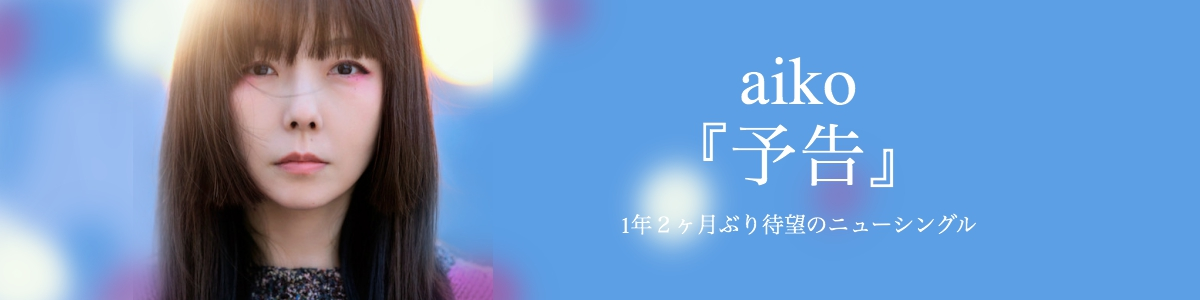
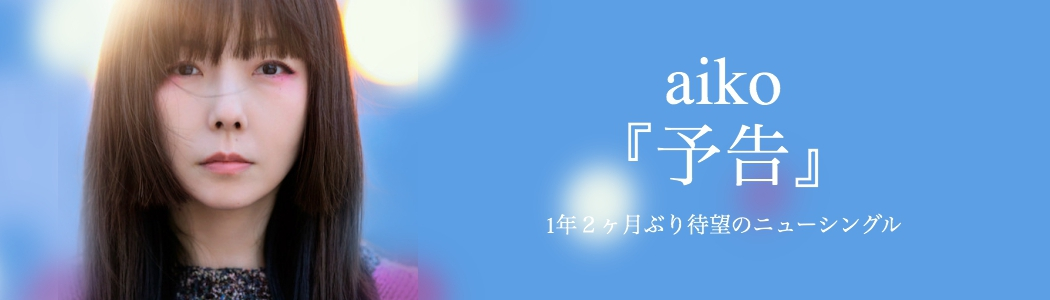
re:sd

diff --git a/sd_sample/song.html b/sd_sample/song.html
@@ -39,6 +39,15 @@
         <div class="col-lg-8 col-lg-offset-2" style="font-size: 12px">
             <form class="form-horizontal">
               <div class="form-group">
+                <label class="control-label col-sm-4" for="price">ディスクナンバー:</label>
+                <div class="col-sm-8"> 
+                  <input type="integer" class="num" id="num" placeholder="disc_num">
+                </div>
+              </div>
+              <!-- ここからnested form!!! -->
+             <div style="text-align: center"> 曲の登録</div>
+            <form class="form-horizontal">
+              <div class="form-group">
                 <label class="control-label col-sm-4" for="price">曲順:</label>
                 <div class="col-sm-8"> 
                   <input type="integer" class="num" id="num" placeholder="order_num">
@@ -69,42 +78,85 @@
                   <input type="string" class="singer_name" id="singer_name" placeholder="singer_name">
                 </div>
 			  </div>
+              <!-- ここまでをnested formで繰り返したい -->
+                           <div style="text-align: center"> 曲の登録</div>
+            <form class="form-horizontal">
+              <div class="form-group">
+                <label class="control-label col-sm-4" for="price">曲順:</label>
+                <div class="col-sm-8"> 
+                  <input type="integer" class="num" id="num" placeholder="order_num">
+                </div>
+              </div>
+              <div class="form-group">
+                <label class="control-label col-sm-4" for="song_name">曲名:</label>
+                <div class="col-sm-8">
+                  <input type="string" class="form-control" id="song_name" placeholder="song_name">
+                </div>
+              </div>
+              <div class="form-group">
+                <label class="control-label col-sm-4" for="song_kana_name">曲名(カナ):</label>
+                <div class="col-sm-8"> 
+                  <input type="string" class="form-control" id="song_kana_name" placeholder="song_kana_name">
+                </div>
+              </div>
+              <div class="form-group">
+                <label class="control-label col-sm-4" for="time">時間:</label>
+                <div class="col-sm-8"> 
+                  <input type="time" class="form-control" id="time" placeholder="time">
+                </div>
+              </div>
+
+              <div class="form-group">
+                <label class="control-label col-sm-4" for="singer_name">アーティスト名:</label>
+                <div class="col-sm-8"> 
+                  <input type="string" class="singer_name" id="singer_name" placeholder="singer_name">
+                </div>
+              </div>
+                           <div style="text-align: center"> 曲の登録</div>
+            <form class="form-horizontal">
+              <div class="form-group">
+                <label class="control-label col-sm-4" for="price">曲順:</label>
+                <div class="col-sm-8"> 
+                  <input type="integer" class="num" id="num" placeholder="order_num">
+                </div>
+              </div>
+              <div class="form-group">
+                <label class="control-label col-sm-4" for="song_name">曲名:</label>
+                <div class="col-sm-8">
+                  <input type="string" class="form-control" id="song_name" placeholder="song_name">
+                </div>
+              </div>
+              <div class="form-group">
+                <label class="control-label col-sm-4" for="song_kana_name">曲名(カナ):</label>
+                <div class="col-sm-8"> 
+                  <input type="string" class="form-control" id="song_kana_name" placeholder="song_kana_name">
+                </div>
+              </div>
+              <div class="form-group">
+                <label class="control-label col-sm-4" for="time">時間:</label>
+                <div class="col-sm-8"> 
+                  <input type="time" class="form-control" id="time" placeholder="time">
+                </div>
+              </div>
+
+              <div class="form-group">
+                <label class="control-label col-sm-4" for="singer_name">アーティスト名:</label>
+                <div class="col-sm-8"> 
+                  <input type="string" class="singer_name" id="singer_name" placeholder="singer_name">
+                </div>
+              </div>
               <div class="right"> 
                 <div class="col-sm-offset-2 col-sm-10">
+                    <div class="left">
                     <a href="disc.html">
-                        <button type="submit" class="btn btn-success">song登録</button>
+                        <button type="submit" class="btn btn-success">まだsong追加する??</button>
                     </a>
+                </div>
                 </div>
             </div>
         </form>
-        <div class="title-headline">ADD DISC</div>
-        <table class="table">
-            <thead>
-                <tr>
-                    <td>1</td>
-                    <td>モーニングコーヒー (20th Anniversary Ver.)</td>
-                    <td>モーニングコーヒー</td>
-                    <td>モーニング娘。20th </td>
-                    <td>03:45</td>
-                </tr>
-            </thead>
-            <tbody>
-            	<tr>
-                    <td>2</td>
-                    <td>WE ARE LEADERS！ ～リーダーってのもつらいもの～</td>
-                    <td>ウィーアーリーダーズ</td>
-                    <td>モーニング娘。リーダーズ(中澤裕子、飯田圭織、矢口真里、吉澤ひとみ、藤本美貴、高橋愛、新垣里沙、道重さゆみ、譜久村聖) </td>
-                    <td>4:30</td>
-            	</tr>
-            	<tr>
-                    <td>3</td>
-                    <td> 花が咲く 太陽浴びて</td>
-                    <td>ハナガサクタイヨウアビテ</td>
-                    <td>モーニング娘。'18</td>
-                    <td>4:24</td>
-            	</tr>
-            </tbody>
-        </table>
+
+
         <div class="right">
         	<a href="song.html">
                 <button class="btn btn-success">disc追加</button>

diff --git a/sd_sample/review_history.html b/sd_sample/review_history.html
@@ -37,13 +37,6 @@
     <div class="col-lg-10 col-lg-offset-1">
     <h2 class="title_headline">REVIEW HISTORY</h2>
     
-<ul class="nav nav-tabs">
-  <li class="active"><a data-toggle="tab" href="#home">新着</a></li>
-  <li><a data-toggle="tab" href="#menu1">確認済</a></li>
-</ul>
-
-<div class="tab-content">
-  <div id="home" class="tab-pane fade in active">
     <h3>新着</h3>
     <table class="table">
                       <thead>
@@ -71,8 +64,6 @@
                                   CDのみならポストに投函されるんでしょうが、特典のクリアファイルが付いているからか、
                                   大きな箱に入って、クリアファイルが折れないように丁寧に梱包されてきました。
                             <div class="review_date">2018/3/3<br>
-                                <a href="review_form.html"><button class="btn btn-success">check</button></a>
-                                <button class="btn btn-danger">destroy</button>
                             </div>
                            </td>
                         </tr>
@@ -92,8 +83,6 @@
                               もちろん、これ以外の曲もとてもよかったです。リーダーズは聞きごたえ満点でした。
                               DVD収録の武道館コンサートに行っていたので、見るたびにあの時の興奮がよみがえります。
                             <div class="review_date">2018/2/3<br>
-                                <a href="review_form.html"><button class="btn btn-success">check</button></a>
-                                    <button class="btn btn-danger">destroy</button>
                             </div>
                           </td>
                         </tr>
@@ -113,8 +102,6 @@
                               記念の落ち着いた曲が多いですね
                               参加してるOGのファンは今回買わずにいつ買うのってことです
                             <div class="review_date">2017/12/3<br>
-                                <a href="review_form.html"><button class="btn btn-success">check</button></a>
-                                <button class="btn btn-danger">destroy</button>
                             </div>
                            </td>
                         </tr>
@@ -131,23 +118,10 @@
                             <td>
                                 <div class="review_star">★☆☆☆☆星1</div><br>初回限定を無事予約出来たのでよかったです。
                                 <div class="review_date">2017/2/3<br>
-                                    <a href="review_form.html"><button class="btn btn-success">check</button></a>
-                                    <button class="btn btn-danger">destroy</button>
                                 </div>
                             </td>
                         </tr>
-                      </tbody>
-                    </table>
                 </div>
-                    <div id="menu1" class="tab-pane fade">
-                        <h3>確認済</h3>
-                        <table class="table">
-                          <thead>
-                            <tr>
-                              <th>cd</th>
-                              <th>user</th>
-                              <th>review/comments</th>
-                            </tr>
                           </thead>
                           <tbody class="review_index">
                             <tr>
@@ -167,8 +141,6 @@
                                       CDのみならポストに投函されるんでしょうが、特典のクリアファイルが付いているからか、
                                       大きな箱に入って、クリアファイルが折れないように丁寧に梱包されてきました。
                                 <div class="review_date">2018/3/3<br>
-                                    <a href="review_form.html"><button class="btn btn-info">back</button></a>
-                                    <button class="btn btn-danger">destroy</button>
                                 </div>
                                </td>
                             </tr>
@@ -188,8 +160,6 @@
                                   もちろん、これ以外の曲もとてもよかったです。リーダーズは聞きごたえ満点でした。
                                   DVD収録の武道館コンサートに行っていたので、見るたびにあの時の興奮がよみがえります。
                                 <div class="review_date">2018/2/3<br>
-                                    <a href="review_form.html"><button class="btn btn-info">back</button></a>
-                                        <button class="btn btn-danger">destroy</button>
                                 </div>
                               </td>
                             </tr>
@@ -209,8 +179,6 @@
                                   記念の落ち着いた曲が多いですね
                                   参加してるOGのファンは今回買わずにいつ買うのってことです
                                 <div class="review_date">2017/12/3<br>
-                                    <a href="review_form.html"><button class="btn btn-info">back</button></a>
-                                    <button class="btn btn-danger">destroy</button>
                                 </div>
                                </td>
                             </tr>
@@ -227,8 +195,6 @@
                                 <td>
                                     <div class="review_star">★☆☆☆☆星1</div><br>初回限定を無事予約出来たのでよかったです。
                                     <div class="review_date">2017/2/3<br>
-                                        <a href="review_form.html"><button class="btn btn-info">back</button></a>
-                                        <button class="btn btn-danger">destroy</button>
                                     </div>
                                 </td>
                             </tr>

diff --git a/sd_sample/admin_user.html b/sd_sample/admin_user.html
@@ -55,7 +55,6 @@
 			    	<li><a href="user.html" >ユーザー情報の確認</a></li>
 			    	<li><a href="user_edit.html" >基本情報の編集</a></li>
 			    	<li><a href="delivery.html" >お届け先追加・変更</a></li>
-			    	<li><a href="pass_edit.html" >パスワード変更</a></li>
 			    	<li><a href="history.html" >購入履歴</a></li>
 			    	<li><a href="my_favorite.html">お気に入りアーティスト</li>
 			    	<li><a href="user_review.html">my review</a></li>

diff --git a/sd_sample/sugerdog.css b/sd_sample/sugerdog.css
@@ -169,7 +169,7 @@ th {
 	text-align: left;
 }
 .top_pop {
-	width: 1200px;
+	width: 1050px;
 	height: 300px;
 }
 .status_label {

diff --git a/sd_sample/admin.css b/sd_sample/admin.css
@@ -221,3 +221,6 @@ th {
 .top_image_index {
 	width: 500px;
 }
+.left {
+	text-align: left;
+}
